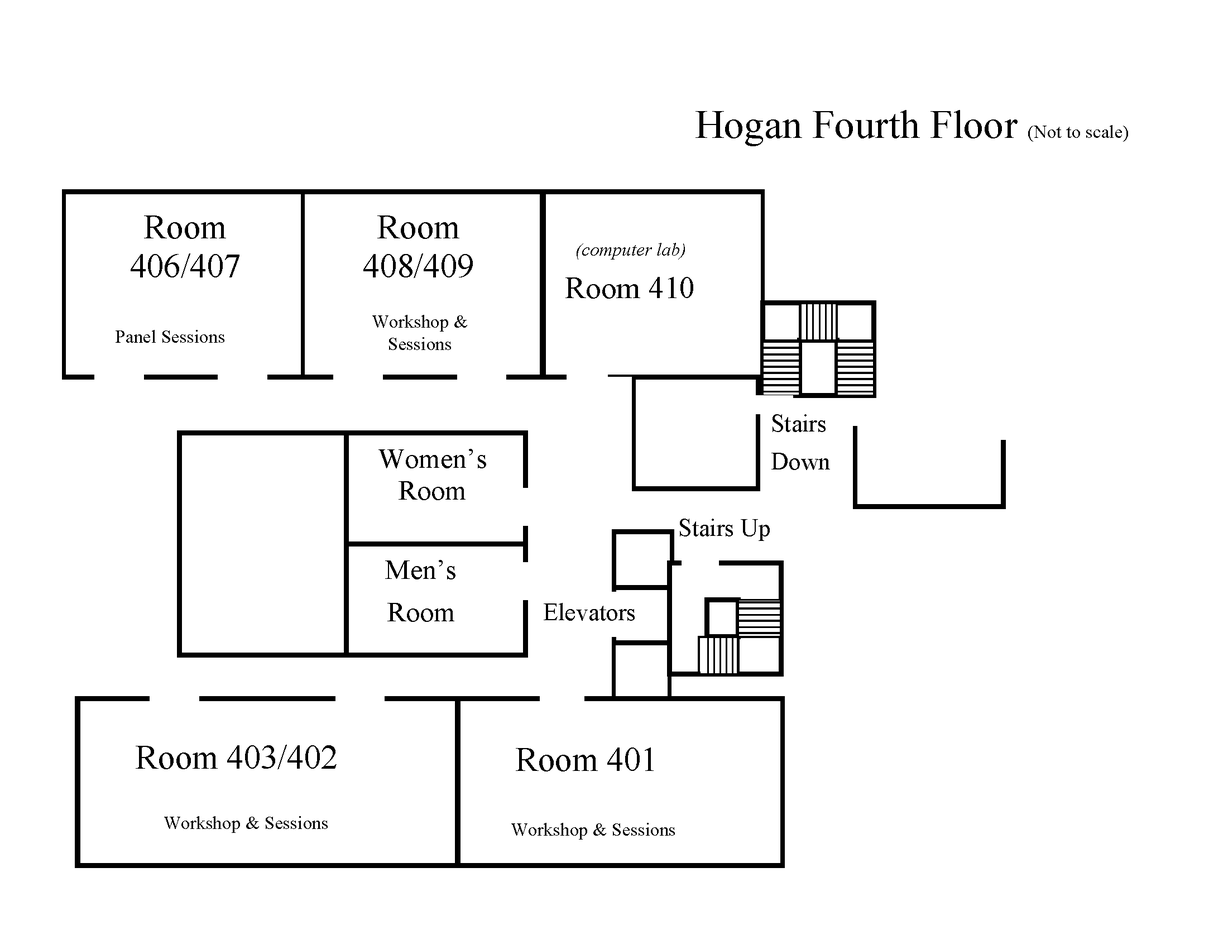
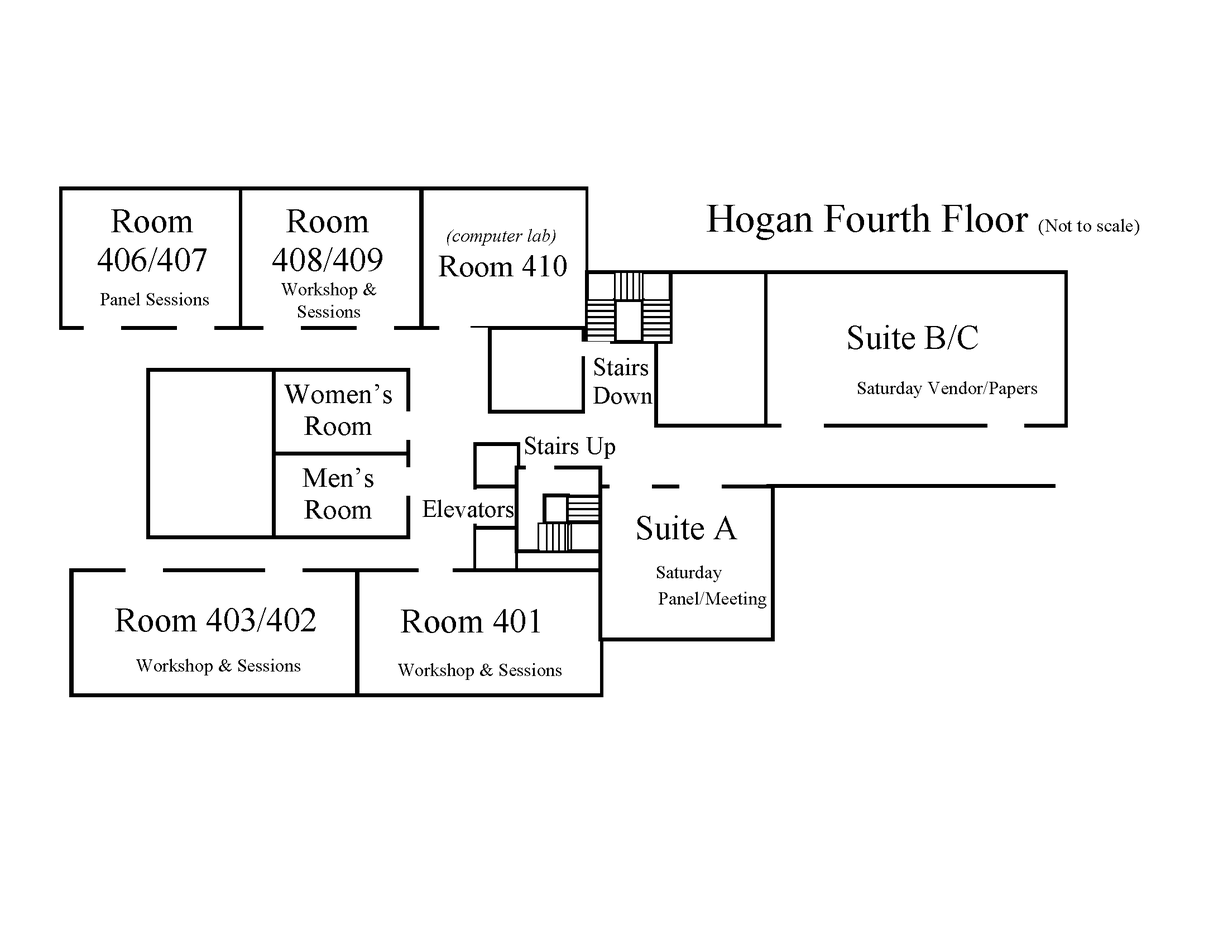
Saturday room changes

diff --git a/data/program.js b/data/program.js
@@ -1,1 +1,1 @@
-var program = [{"id": "1", "date": "2015-04-17", "mins": "495", "title": "Registration", "desc": "", "people": [], "time": "07:45", "loc": ["Hogan Third Floor Atrium"], "tags": ["Registration"]}, {"id": "2", "date": "2015-04-17", "mins": "55", "title": "Programming Contest: Registration of teams", "desc": "", "people": [], "time": "07:45", "loc": ["Hogan Third Floor Atrium"], "tags": ["Programming Contest"]}, {"id": "3", "date": "2015-04-17", "mins": "55", "title": "Programming Contest: Breakfast", "desc": "", "people": [], "time": "07:45", "loc": ["Spillane Atrium"], "tags": ["Programming Contest"]}, {"id": "4", "date": "2015-04-17", "mins": "20", "title": "Programming Contest: Pre-contest instructions", "desc": "", "people": [], "time": "08:40", "loc": ["Smith Labs 154"], "tags": ["Programming Contest"]}, {"id": "5", "date": "2015-04-17", "mins": "180", "title": "Programming Contest", "desc": "", "people": [], "time": "09:00", "loc": ["Haberlin Lab 136 and 204, Swords Lab 219 "], "tags": ["Programming Contest"]}, {"id": "6", "date": "2015-04-17", "mins": "30", "title": "Programming Contest: Lunch", "desc": "", "people": [], "time": "12:00", "loc": ["Swords Room 352"], "tags": ["Programming Contest"]}, {"id": "7", "date": "2015-04-17", "mins": "180", "title": "Workshop 1: Computational Thinking in Greenfoot AI Game Strategies for CS1", "desc": "", "people": [{"id": "1", "name": "Michael Jonas"}, {"id": "2", "name": "Mihaela Sabin"}], "time": "09:00", "loc": ["Hogan Room 320"], "tags": ["Workshop"]}, {"id": "8", "date": "2015-04-17", "mins": "180", "title": "Workshop 2:Introducing Secure Coding in CS0, CS1, and CS2", "desc": "", "people": [{"id": "3", "name": "Siddharth Kaza"}, {"id": "4", "name": "Blair Taylor"}, {"id": "5", "name": "Elzabeth K. Hawthorne"}], "time": "09:00", "loc": ["Hogan Room 401"], "tags": ["Workshop"]}, {"id": "9", "date": "2015-04-17", "mins": "180", "title": "Workshop 3: Teaching Software Engineering with Lego Serious Play ", "desc": "", "people": [{"id": "6", "name": "Stan Kurkovsky"}], "time": "09:00", "loc": ["Hogan Room 408/409"], "tags": ["Workshop"]}, {"id": "10", "date": "2015-04-17", "mins": "180", "title": "Workshop 4: Chapel: A Versatile Language for Teaching Parallel Programming ", "desc": "", "people": [{"id": "7", "name": "Kyle Burke"}], "time": "09:00", "loc": ["Hogan Room 402/403"], "tags": ["Workshop"]}, {"id": "11", "date": "2015-04-17", "mins": "390", "title": "Hackfest", "desc": "Sponsored by OpenHatch and Red Hat", "people": [{"id": "8", "name": "Shauna Gordon-McKeon"}, {"id": "9", "name": "Stoney Jackson"}, {"id": "10", "name": "Heidi Ellis"}], "time": "14:30", "loc": ["Hogan Room 320"], "tags": ["Hackfest"]}, {"id": "12", "date": "2015-04-17", "mins": "15", "title": "Welcome Address", "desc": "", "people": [{"id": "11", "name": "Margaret Frieje"}], "time": "13:00", "loc": ["Hogan Third Floor Ballroom"], "tags": ["Plenary"]}, {"id": "13", "date": "2015-04-17", "mins": "60", "title": "Self-Limiting Software and Sociotechnical Ecosystems", "desc": "", "people": [{"id": "12", "name": "Sep Kamvar"}], "time": "13:15", "loc": ["Hogan Third Floor Ballroom"], "tags": ["Plenary"]}, {"id": "14", "date": "2015-04-17", "mins": "15", "title": "Break", "desc": "", "people": [], "time": "14:15", "loc": ["Hogan Third Floor Lounge"], "tags": ["Break"]}, {"id": "15", "date": "2015-04-17", "mins": "75", "title": "Paper Session 1A: Curricular Issues", "desc": "", "people": [{"id": "13", "name": "Michael Gousie (Session Chair)"}], "time": "14:30", "loc": ["Hogan Room 401"], "tags": ["Paper", "Session 1A"]}, {"id": "16", "date": "2015-04-17", "mins": "25", "title": "Preliminary Analysis of the 2014 Snapshot of SUNY CS Gatekeeper Courses", "desc": "", "people": [{"id": "14", "name": "Sen Zhang"}, {"id": "15", "name": "Cynthia Marcello"}, {"id": "16", "name": "Arthur Hoskey"}, {"id": "17", "name": "Howard Reed"}, {"id": "18", "name": "James Antonakos"}], "time": "14:30", "loc": ["Hogan Room 401"], "tags": ["Paper", "Session 1A"]}, {"id": "17", "date": "2015-04-17", "mins": "25", "title": "A Dual-Major Course Emphasizing Computer Science and Graphic Design", "desc": "", "people": [{"id": "19", "name": "Fred Martin"}, {"id": "20", "name": "Mark Sherman"}], "time": "14:55", "loc": ["Hogan Room 401"], "tags": ["Paper", "Session 1A"]}, {"id": "18", "date": "2015-04-17", "mins": "20", "title": "Public Debate Format for the Development of Soft Skill Competency in Computer Science Curriculua", "desc": "", "people": [{"id": "21", "name": "Christopher Stuetzle"}], "time": "15:20", "loc": ["Hogan Room 401"], "tags": ["Paper", "Session 1A"]}, {"id": "19", "date": "2015-04-17", "mins": "75", "title": "Quick Git Setup Tutorial", "desc": "", "people": [{"id": "22", "name": "Joseph Lawrance"}, {"id": "23", "name": "Seikyung Jung"}], "time": "14:30", "loc": ["Hogan Room 402/403"], "tags": ["Tutorial", "Session 1B"]}, {"id": "20", "date": "2015-04-17", "mins": "75", "title": "Panel Session 1C", "desc": "", "people": [{"id": "24", "name": "Yana Kortsarts (Session Chair)"}], "time": "14:30", "loc": ["Hogan Room 406/407"], "tags": ["Panel", "Session 1C"]}, {"id": "21", "date": "2015-04-17", "mins": "75", "title": "Making Interdisciplinary Courses and Projects Work", "desc": "", "people": [{"id": "25", "name": "Bonnie MacKellar"}, {"id": "26", "name": "Joan Peckham"}, {"id": "27", "name": "Jesse Heines"}, {"id": "28", "name": "Margaret Menzin"}, {"id": "29", "name": "Ursula Wolz"}], "time": "14:30", "loc": ["Hogan Room 406/407"], "tags": ["Panel", "Session 1C"]}, {"id": "22", "date": "2015-04-17", "mins": "75", "title": "EMC Academic Alliance - Educating Future IT Professionals", "desc": "Learn how you can enhance student career prospects in the world of IT through the Academic Alliance. The program offers colleges and universities around the globe unique ‘open’ curriculum-based education, such as storage, cloud computing and big data analytics. The courses focus on technology concepts and principles applicable to any vendor environment. The goal is to prepare graduates to fully leverage enhanced and emerging technologies in virtualized and cloud environments. There is no cost to institutions	 to join the program and members receive numerous benefits including: faculty training, course materials, and secure web portals for faculty and students.", "people": [{"id": "30", "name": "Kim Yohannan"}], "time": "14:30", "loc": ["Hogan Room 408/409"], "tags": ["Vendor", "Session 1D"]}, {"id": "23", "date": "2015-04-17", "mins": "30", "title": "Break", "desc": "", "people": [], "time": "15:45", "loc": ["Hogan Third Floor Lounge"], "tags": ["Break"]}, {"id": "24", "date": "2015-04-17", "mins": "75", "title": "Paper & Lightning Talks Session 2A", "desc": "", "people": [{"id": "31", "name": "Joan E. DeBello (Session Chair)"}], "time": "16:15", "loc": ["Hogan Room 401"], "tags": ["Paper", "Session 2A"]}, {"id": "25", "date": "2015-04-17", "mins": "25", "title": "Algorithmic Thinking Unplugged", "desc": "", "people": [{"id": "32", "name": "Ed Lamanga"}], "time": "16:15", "loc": ["Hogan Room 401"], "tags": ["Paper", "Session 2A"]}, {"id": "26", "date": "2015-04-17", "mins": "25", "title": "The Assessment of Mobile Computational Thinking", "desc": "", "people": [{"id": "20", "name": "Mark Sherman"}, {"id": "19", "name": "Fred Martin"}], "time": "16:40", "loc": ["Hogan Room 401"], "tags": ["Paper", "Session 2A"]}, {"id": "27", "date": "2015-04-17", "mins": "25", "title": "An Abstract Game for Each Data Structure", "desc": "", "people": [{"id": "33", "name": "Kyle Burke"}], "time": "17:05", "loc": ["Hogan Room 401"], "tags": ["Lightning Talk", "Session 2A"]}, {"id": "28", "date": "2015-04-17", "mins": "75", "title": "Panel Session 2B", "desc": "", "people": [{"id": "24", "name": "Yana Kortsarts (Session Chair)"}], "time": "16:15", "loc": ["Hogan Room 406/407"], "tags": ["Panel", "Session 2B"]}, {"id": "29", "date": "2015-04-17", "mins": "75", "title": "Lessons from Women's College: What Works, What Doesn't, and What Will Work Elsewhere", "desc": "", "people": [{"id": "34", "name": "Nanette Veilleux"}, {"id": "35", "name": "Barbara Lerner"}, {"id": "36", "name": "Jean Herbst"}, {"id": "37", "name": "Christopher Andrews"}], "time": "16:15", "loc": ["Hogan Room 406/407"], "tags": ["Panel", "Session 2B"]}, {"id": "30", "date": "2015-04-17", "mins": "75", "title": "Using the Cloud as Middleware", "desc": "", "people": [{"id": "38", "name": "Delbert Hart"}], "time": "16:15", "loc": ["Hogan Room 408/409"], "tags": ["Tutorial", "Session 2C"]}, {"id": "31", "date": "2015-04-17", "mins": "90", "title": "Social Hour", "desc": "", "people": [], "time": "17:30", "loc": ["Hogan Third Floor Lounge"], "tags": ["Social Hour"]}, {"id": "32", "date": "2015-04-17", "mins": "90", "title": "Faculty Posters", "desc": "", "people": [], "time": "17:30", "loc": ["Hogan Third Floor Lounge"], "tags": ["Poster"]}, {"id": "33", "date": "2015-04-17", "mins": "90", "title": "Student Posters", "desc": "", "people": [], "time": "17:30", "loc": ["Hogan Rooms 304/305 and 328"], "tags": ["Poster"]}, {"id": "34", "date": "2015-04-17", "mins": "120", "title": "Presentation of Awards for Programming Contest and Student Posters", "desc": "", "people": [], "time": "19:00", "loc": ["Hogan Third Floor Ballroom"], "tags": ["Awards"]}, {"id": "35", "date": "2015-04-17", "mins": "120", "title": "Dinner Banquet", "desc": "", "people": [], "time": "19:00", "loc": ["Hogan Third Floor Ballroom"], "tags": ["Banquet"]}, {"id": "36", "date": "2015-04-18", "mins": "150", "title": "Registration and hospitalities", "desc": "", "people": [], "time": "07:30", "loc": ["Hogan Third Floor Atrium"], "tags": ["Registration"]}, {"id": "37", "date": "2015-04-18", "mins": "60", "title": "Light Continental Breakfast", "desc": "", "people": [], "time": "08:00", "loc": ["Hogan Third Floor Lounge"], "tags": ["Breakfast"]}, {"id": "38", "date": "2015-04-18", "mins": "75", "title": "Paper Session 3A: Engaging Approaches", "desc": "", "people": [{"id": "39", "name": "Daniel Rogers (Session Chair)"}], "time": "09:00", "loc": ["Hogan Room 401"], "tags": ["Paper", "Session 3A"]}, {"id": "39", "date": "2015-04-18", "mins": "25", "title": "Using Packet Sniffing to Teach Networking Concepts", "desc": "", "people": [{"id": "40", "name": "Bruce Tis"}], "time": "09:00", "loc": ["Hogan Room 401"], "tags": ["Paper", "Session 3A"]}, {"id": "40", "date": "2015-04-18", "mins": "25", "title": "Cybersecurity Games Can Be Interactive, Fun, Educational and Engaging", "desc": "", "people": [{"id": "41", "name": "Thomas Sharkey"}, {"id": "42", "name": "Catherine Huang"}, {"id": "43", "name": "Ian Cullinane"}, {"id": "44", "name": "Shamsi Moussavi"}], "time": "09:25", "loc": ["Hogan Room 401"], "tags": ["Paper", "Session 3A"]}, {"id": "41", "date": "2015-04-18", "mins": "25", "title": "The Social Side of CS: Engaging Undergraduate Computer Science Students in the IRBProcess for Research Investigating Cyberbullying in Online Multi-Player Gaming Environments", "desc": "", "people": [{"id": "45", "name": "Jami Cotler"}, {"id": "46", "name": "Meg Fryling"}, {"id": "47", "name": "Lauren Mathews"}, {"id": "48", "name": "Shauna Pratico"}], "time": "09:50", "loc": ["Hogan Room 401"], "tags": ["Paper", "Session 3A"]}, {"id": "42", "date": "2015-04-18", "mins": "75", "title": "Paper & Lightning Talks Session 3B", "desc": "", "people": [{"id": "9", "name": "Stoney Jackson (Session Chair)"}], "time": "09:00", "loc": ["Hogan Room 402/403"], "tags": ["Paper", "Session 3B"]}, {"id": "43", "date": "2015-04-18", "mins": "25", "title": "Teaching Greedy Algorithms Using a Single Problem Domain", "desc": "", "people": [{"id": "49", "name": "Joan Lucas"}], "time": "09:00", "loc": ["Hogan Room 402/403"], "tags": ["Paper", "Session 3B"]}, {"id": "44", "date": "2015-04-18", "mins": "25", "title": "On Adding a Critical Thinking Module to a Discrete Structures Course", "desc": "", "people": [{"id": "50", "name": "Michael Scheessele"}, {"id": "51", "name": "Hang Dinh"}, {"id": "52", "name": "Mahesh Anath"}], "time": "09:25", "loc": ["Hogan Room 402/403"], "tags": ["Paper", "Session 3B"]}, {"id": "45", "date": "2015-04-18", "mins": "25", "title": "Challenges in Designing and Introductory Course in Big Data Programming", "desc": "", "people": [{"id": "53", "name": "Roland Depratti"}, {"id": "54", "name": "Gerrett Dancik"}, {"id": "55", "name": "Sara Tasneem"}], "time": "09:50", "loc": ["Hogan Room 402/403"], "tags": ["Lightning Talk", "Session 3B"]}, {"id": "46", "date": "2015-04-18", "mins": "75", "title": "Panel Session 3C", "desc": "", "people": [{"id": "56", "name": "Susan Imberman (Session Chair)"}], "time": "09:00", "loc": ["Hogan Room 406/407"], "tags": ["Panel", "Session 3C"]}, {"id": "47", "date": "2015-04-18", "mins": "75", "title": "Introductory Computer Science Courses: A Discussion about the Rewards, Challenges and Connections among the Courses Taught at the Secondary and College Level", "desc": "", "people": [{"id": "57", "name": "Ann Moskol"}, {"id": "58", "name": "Michael Deslauriers"}, {"id": "26", "name": "Joan Peckham"}, {"id": "59", "name": "Dominic Herard"}], "time": "09:00", "loc": ["Hogan Room 406/407"], "tags": ["Panel", "Session 3C"]}, {"id": "48", "date": "2015-04-18", "mins": "60", "title": "Programming with Grace", "desc": "", "people": [{"id": "60", "name": "Kim Bruce"}], "time": "10:15", "loc": ["Hogan Third Floor Ballroom"], "tags": ["Plenary"]}, {"id": "49", "date": "2015-04-18", "mins": "15", "title": "Break", "desc": "", "people": [], "time": "11:15", "loc": ["Hogan Third Floor Lounge"], "tags": []}, {"id": "50", "date": "2015-04-18", "mins": "75", "title": "Paper Session 4A: Social and Outreach", "desc": "", "people": [{"id": "61", "name": "Adrian Ionescu"}], "time": "11:30", "loc": ["Hogan Room 401"], "tags": ["Paper", "Session 4A"]}, {"id": "51", "date": "2015-04-18", "mins": "25", "title": "Using Web Conferencing to Foster Learning Partnerships in a Team Based Learning Computer Science Curriculum", "desc": "", "people": [{"id": "45", "name": "Jami Cotler"}, {"id": "62", "name": "Dima Kassab"}, {"id": "63", "name": "Xiaojun Yuan"}], "time": "11:30", "loc": ["Hogan Room 401"], "tags": ["Paper", "Session 4A"]}, {"id": "52", "date": "2015-04-18", "mins": "25", "title": "Evaluation of A Computing and Engineering Outreach Program for Girls in Grades 8-10", "desc": "", "people": [{"id": "2", "name": "Mihaela Sabin"}, {"id": "64", "name": "Paul Snow"}, {"id": "65", "name": "Mary Laturnau"}], "time": "11:55", "loc": ["Hogan Room 401"], "tags": ["Paper", "Session 4A"]}, {"id": "53", "date": "2015-04-18", "mins": "25", "title": "Involving High School Students with Visualization and Image Processing", "desc": "", "people": [{"id": "66", "name": "Rahman Tashakkori"}, {"id": "67", "name": "Ahmad Ghadiri"}, {"id": "68", "name": "Sina Tashakkori"}], "time": "12:20", "loc": ["Hogan Room 401"], "tags": ["Paper", "Session 4A"]}, {"id": "54", "date": "2015-04-18", "mins": "75", "title": "Adopting a \"Flipped\" Interactive Pedagogy Using Teachback", "desc": "", "people": [{"id": "69", "name": "Timothy J. Hickey"}, {"id": "70", "name": "William T. Tarimo"}], "time": "11:30", "loc": ["Hogan Room 402/403"], "tags": ["Tutorial", "Session 4B"]}, {"id": "55", "date": "2015-04-18", "mins": "75", "title": "Paper Session 4C: Labs", "desc": "", "people": [{"id": "71", "name": "Larry D'Antonio (Session Chair)"}], "time": "11:30", "loc": ["Hogan Room 408/409"], "tags": ["Paper", "Session 4C"]}, {"id": "56", "date": "2015-04-18", "mins": "25", "title": "Droplet, a Blocks-Based Editor for Text Code", "desc": "", "people": [{"id": "72", "name": "David Bau"}], "time": "11:30", "loc": ["Hogan Room 408/409"], "tags": ["Paper", "Session 4C"]}, {"id": "57", "date": "2015-04-18", "mins": "25", "title": "Automatic Evaluation of Computer Programs Using Moodle's Virtual Programming Lab (VPL) Module", "desc": "", "people": [{"id": "73", "name": "Dominique Thiebaut"}], "time": "11:55", "loc": ["Hogan Room 408/409"], "tags": ["Paper", "Session 4C"]}, {"id": "58", "date": "2015-04-18", "mins": "75", "title": "Turings Craft - Creating Your Own Exercises in CodeLab and MyProgrammingLab", "desc": "CodeLab provides hundreds of short programming exercises in each commonly taught intro programming language. In case that's not enough for you or if you want to arrange for your favorite homework programming assignments to be automatically checked (with	 feedback to students), it's now easier than ever in the latest	 edition of CodeLab", "people": [{"id": "74", "name": "David Arnow"}], "time": "09:00", "loc": ["Hogan Room 408/409"], "tags": ["Vendor", "Session 3D"]}, {"id": "59", "date": "2015-04-18", "mins": "30", "title": "Membership Meeting", "desc": "", "people": [], "time": "13:00", "loc": ["Hogan Room 320"], "tags": ["Meeting"]}, {"id": "60", "date": "2015-04-18", "mins": "120", "title": "Board Meeting", "desc": "", "people": [], "time": "13:30", "loc": ["Hogan Room 320"], "tags": ["Meeting"]}];
+var program = [{"id": "1", "date": "2015-04-17", "mins": "495", "title": "Registration", "desc": "", "people": [], "time": "07:45", "loc": ["Hogan Third Floor Atrium"], "tags": ["Registration"]}, {"id": "2", "date": "2015-04-17", "mins": "55", "title": "Programming Contest: Registration of teams", "desc": "", "people": [], "time": "07:45", "loc": ["Hogan Third Floor Atrium"], "tags": ["Programming Contest"]}, {"id": "3", "date": "2015-04-17", "mins": "55", "title": "Programming Contest: Breakfast", "desc": "", "people": [], "time": "07:45", "loc": ["Spillane Atrium"], "tags": ["Programming Contest"]}, {"id": "4", "date": "2015-04-17", "mins": "20", "title": "Programming Contest: Pre-contest instructions", "desc": "", "people": [], "time": "08:40", "loc": ["Smith Labs 154"], "tags": ["Programming Contest"]}, {"id": "5", "date": "2015-04-17", "mins": "180", "title": "Programming Contest", "desc": "", "people": [], "time": "09:00", "loc": ["Haberlin Lab 136 and 204, Swords Lab 219 "], "tags": ["Programming Contest"]}, {"id": "6", "date": "2015-04-17", "mins": "30", "title": "Programming Contest: Lunch", "desc": "", "people": [], "time": "12:00", "loc": ["Swords Room 352"], "tags": ["Programming Contest"]}, {"id": "7", "date": "2015-04-17", "mins": "180", "title": "Workshop 1: Computational Thinking in Greenfoot AI Game Strategies for CS1", "desc": "", "people": [{"id": "1", "name": "Michael Jonas"}, {"id": "2", "name": "Mihaela Sabin"}], "time": "09:00", "loc": ["Hogan Room 320"], "tags": ["Workshop"]}, {"id": "8", "date": "2015-04-17", "mins": "180", "title": "Workshop 2:Introducing Secure Coding in CS0, CS1, and CS2", "desc": "", "people": [{"id": "3", "name": "Siddharth Kaza"}, {"id": "4", "name": "Blair Taylor"}, {"id": "5", "name": "Elzabeth K. Hawthorne"}], "time": "09:00", "loc": ["Hogan Room 401"], "tags": ["Workshop"]}, {"id": "9", "date": "2015-04-17", "mins": "180", "title": "Workshop 3: Teaching Software Engineering with Lego Serious Play ", "desc": "", "people": [{"id": "6", "name": "Stan Kurkovsky"}], "time": "09:00", "loc": ["Hogan Room 408/409"], "tags": ["Workshop"]}, {"id": "10", "date": "2015-04-17", "mins": "180", "title": "Workshop 4: Chapel: A Versatile Language for Teaching Parallel Programming ", "desc": "", "people": [{"id": "7", "name": "Kyle Burke"}], "time": "09:00", "loc": ["Hogan Room 402/403"], "tags": ["Workshop"]}, {"id": "11", "date": "2015-04-17", "mins": "390", "title": "Hackfest", "desc": "Sponsored by OpenHatch and Red Hat", "people": [{"id": "8", "name": "Shauna Gordon-McKeon"}, {"id": "9", "name": "Stoney Jackson"}, {"id": "10", "name": "Heidi Ellis"}], "time": "14:30", "loc": ["Hogan Room 320"], "tags": ["Hackfest"]}, {"id": "12", "date": "2015-04-17", "mins": "15", "title": "Welcome Address", "desc": "", "people": [{"id": "11", "name": "Margaret Frieje"}], "time": "13:00", "loc": ["Hogan Third Floor Ballroom"], "tags": ["Plenary"]}, {"id": "13", "date": "2015-04-17", "mins": "60", "title": "Self-Limiting Software and Sociotechnical Ecosystems", "desc": "", "people": [{"id": "12", "name": "Sep Kamvar"}], "time": "13:15", "loc": ["Hogan Third Floor Ballroom"], "tags": ["Plenary"]}, {"id": "14", "date": "2015-04-17", "mins": "15", "title": "Break", "desc": "", "people": [], "time": "14:15", "loc": ["Hogan Third Floor Lounge"], "tags": ["Break"]}, {"id": "15", "date": "2015-04-17", "mins": "75", "title": "Paper Session 1A: Curricular Issues", "desc": "", "people": [{"id": "13", "name": "Michael Gousie (Session Chair)"}], "time": "14:30", "loc": ["Hogan Room 401"], "tags": ["Paper", "Session 1A"]}, {"id": "16", "date": "2015-04-17", "mins": "25", "title": "Preliminary Analysis of the 2014 Snapshot of SUNY CS Gatekeeper Courses", "desc": "", "people": [{"id": "14", "name": "Sen Zhang"}, {"id": "15", "name": "Cynthia Marcello"}, {"id": "16", "name": "Arthur Hoskey"}, {"id": "17", "name": "Howard Reed"}, {"id": "18", "name": "James Antonakos"}], "time": "14:30", "loc": ["Hogan Room 401"], "tags": ["Paper", "Session 1A"]}, {"id": "17", "date": "2015-04-17", "mins": "25", "title": "A Dual-Major Course Emphasizing Computer Science and Graphic Design", "desc": "", "people": [{"id": "19", "name": "Fred Martin"}, {"id": "20", "name": "Mark Sherman"}], "time": "14:55", "loc": ["Hogan Room 401"], "tags": ["Paper", "Session 1A"]}, {"id": "18", "date": "2015-04-17", "mins": "20", "title": "Public Debate Format for the Development of Soft Skill Competency in Computer Science Curriculua", "desc": "", "people": [{"id": "21", "name": "Christopher Stuetzle"}], "time": "15:20", "loc": ["Hogan Room 401"], "tags": ["Paper", "Session 1A"]}, {"id": "19", "date": "2015-04-17", "mins": "75", "title": "Quick Git Setup Tutorial", "desc": "", "people": [{"id": "22", "name": "Joseph Lawrance"}, {"id": "23", "name": "Seikyung Jung"}], "time": "14:30", "loc": ["Hogan Room 402/403"], "tags": ["Tutorial", "Session 1B"]}, {"id": "20", "date": "2015-04-17", "mins": "75", "title": "Panel Session 1C", "desc": "", "people": [{"id": "24", "name": "Yana Kortsarts (Session Chair)"}], "time": "14:30", "loc": ["Hogan Room 406/407"], "tags": ["Panel", "Session 1C"]}, {"id": "21", "date": "2015-04-17", "mins": "75", "title": "Making Interdisciplinary Courses and Projects Work", "desc": "", "people": [{"id": "25", "name": "Bonnie MacKellar"}, {"id": "26", "name": "Joan Peckham"}, {"id": "27", "name": "Jesse Heines"}, {"id": "28", "name": "Margaret Menzin"}, {"id": "29", "name": "Ursula Wolz"}], "time": "14:30", "loc": ["Hogan Room 406/407"], "tags": ["Panel", "Session 1C"]}, {"id": "22", "date": "2015-04-17", "mins": "75", "title": "EMC Academic Alliance - Educating Future IT Professionals", "desc": "Learn how you can enhance student career prospects in the world of IT through the Academic Alliance. The program offers colleges and universities around the globe unique ‘open’ curriculum-based education, such as storage, cloud computing and big data analytics. The courses focus on technology concepts and principles applicable to any vendor environment. The goal is to prepare graduates to fully leverage enhanced and emerging technologies in virtualized and cloud environments. There is no cost to institutions	 to join the program and members receive numerous benefits including: faculty training, course materials, and secure web portals for faculty and students.", "people": [{"id": "30", "name": "Kim Yohannan"}], "time": "14:30", "loc": ["Hogan Room 408/409"], "tags": ["Vendor", "Session 1D"]}, {"id": "23", "date": "2015-04-17", "mins": "30", "title": "Break", "desc": "", "people": [], "time": "15:45", "loc": ["Hogan Third Floor Lounge"], "tags": ["Break"]}, {"id": "24", "date": "2015-04-17", "mins": "75", "title": "Paper & Lightning Talks Session 2A", "desc": "", "people": [{"id": "31", "name": "Joan E. DeBello (Session Chair)"}], "time": "16:15", "loc": ["Hogan Room 401"], "tags": ["Paper", "Session 2A"]}, {"id": "25", "date": "2015-04-17", "mins": "25", "title": "Algorithmic Thinking Unplugged", "desc": "", "people": [{"id": "32", "name": "Ed Lamanga"}], "time": "16:15", "loc": ["Hogan Room 401"], "tags": ["Paper", "Session 2A"]}, {"id": "26", "date": "2015-04-17", "mins": "25", "title": "The Assessment of Mobile Computational Thinking", "desc": "", "people": [{"id": "20", "name": "Mark Sherman"}, {"id": "19", "name": "Fred Martin"}], "time": "16:40", "loc": ["Hogan Room 401"], "tags": ["Paper", "Session 2A"]}, {"id": "27", "date": "2015-04-17", "mins": "25", "title": "An Abstract Game for Each Data Structure", "desc": "", "people": [{"id": "33", "name": "Kyle Burke"}], "time": "17:05", "loc": ["Hogan Room 401"], "tags": ["Lightning Talk", "Session 2A"]}, {"id": "28", "date": "2015-04-17", "mins": "75", "title": "Panel Session 2B", "desc": "", "people": [{"id": "24", "name": "Yana Kortsarts (Session Chair)"}], "time": "16:15", "loc": ["Hogan Room 406/407"], "tags": ["Panel", "Session 2B"]}, {"id": "29", "date": "2015-04-17", "mins": "75", "title": "Lessons from Women's College: What Works, What Doesn't, and What Will Work Elsewhere", "desc": "", "people": [{"id": "34", "name": "Nanette Veilleux"}, {"id": "35", "name": "Barbara Lerner"}, {"id": "36", "name": "Jean Herbst"}, {"id": "37", "name": "Christopher Andrews"}], "time": "16:15", "loc": ["Hogan Room 406/407"], "tags": ["Panel", "Session 2B"]}, {"id": "30", "date": "2015-04-17", "mins": "75", "title": "Using the Cloud as Middleware", "desc": "", "people": [{"id": "38", "name": "Delbert Hart"}], "time": "16:15", "loc": ["Hogan Room 408/409"], "tags": ["Tutorial", "Session 2C"]}, {"id": "31", "date": "2015-04-17", "mins": "90", "title": "Social Hour", "desc": "", "people": [], "time": "17:30", "loc": ["Hogan Third Floor Lounge"], "tags": ["Social Hour"]}, {"id": "32", "date": "2015-04-17", "mins": "90", "title": "Faculty Posters", "desc": "", "people": [], "time": "17:30", "loc": ["Hogan Third Floor Lounge"], "tags": ["Poster"]}, {"id": "33", "date": "2015-04-17", "mins": "90", "title": "Student Posters", "desc": "", "people": [], "time": "17:30", "loc": ["Hogan Rooms 304/305 and 328"], "tags": ["Poster"]}, {"id": "34", "date": "2015-04-17", "mins": "120", "title": "Presentation of Awards for Programming Contest and Student Posters", "desc": "", "people": [], "time": "19:00", "loc": ["Hogan Third Floor Ballroom"], "tags": ["Awards"]}, {"id": "35", "date": "2015-04-17", "mins": "120", "title": "Dinner Banquet", "desc": "", "people": [], "time": "19:00", "loc": ["Hogan Third Floor Ballroom"], "tags": ["Banquet"]}, {"id": "36", "date": "2015-04-18", "mins": "150", "title": "Registration and hospitalities", "desc": "", "people": [], "time": "07:30", "loc": ["Hogan Third Floor Atrium"], "tags": ["Registration"]}, {"id": "37", "date": "2015-04-18", "mins": "60", "title": "Light Continental Breakfast", "desc": "", "people": [], "time": "08:00", "loc": ["Hogan Third Floor Lounge"], "tags": ["Breakfast"]}, {"id": "38", "date": "2015-04-18", "mins": "75", "title": "Paper Session 3A: Engaging Approaches", "desc": "", "people": [{"id": "39", "name": "Daniel Rogers (Session Chair)"}], "time": "09:00", "loc": ["Hogan Room 401"], "tags": ["Paper", "Session 3A"]}, {"id": "39", "date": "2015-04-18", "mins": "25", "title": "Using Packet Sniffing to Teach Networking Concepts", "desc": "", "people": [{"id": "40", "name": "Bruce Tis"}], "time": "09:00", "loc": ["Hogan Room 401"], "tags": ["Paper", "Session 3A"]}, {"id": "40", "date": "2015-04-18", "mins": "25", "title": "Cybersecurity Games Can Be Interactive, Fun, Educational and Engaging", "desc": "", "people": [{"id": "41", "name": "Thomas Sharkey"}, {"id": "42", "name": "Catherine Huang"}, {"id": "43", "name": "Ian Cullinane"}, {"id": "44", "name": "Shamsi Moussavi"}], "time": "09:25", "loc": ["Hogan Room 401"], "tags": ["Paper", "Session 3A"]}, {"id": "41", "date": "2015-04-18", "mins": "25", "title": "The Social Side of CS: Engaging Undergraduate Computer Science Students in the IRBProcess for Research Investigating Cyberbullying in Online Multi-Player Gaming Environments", "desc": "", "people": [{"id": "45", "name": "Jami Cotler"}, {"id": "46", "name": "Meg Fryling"}, {"id": "47", "name": "Lauren Mathews"}, {"id": "48", "name": "Shauna Pratico"}], "time": "09:50", "loc": ["Hogan Room 401"], "tags": ["Paper", "Session 3A"]}, {"id": "42", "date": "2015-04-18", "mins": "75", "title": "Paper & Lightning Talks Session 3B", "desc": "", "people": [{"id": "9", "name": "Stoney Jackson (Session Chair)"}], "time": "09:00", "loc": ["Hogan Room 402/403"], "tags": ["Paper", "Session 3B"]}, {"id": "43", "date": "2015-04-18", "mins": "25", "title": "Teaching Greedy Algorithms Using a Single Problem Domain", "desc": "", "people": [{"id": "49", "name": "Joan Lucas"}], "time": "09:00", "loc": ["Hogan Room 402/403"], "tags": ["Paper", "Session 3B"]}, {"id": "44", "date": "2015-04-18", "mins": "25", "title": "On Adding a Critical Thinking Module to a Discrete Structures Course", "desc": "", "people": [{"id": "50", "name": "Michael Scheessele"}, {"id": "51", "name": "Hang Dinh"}, {"id": "52", "name": "Mahesh Anath"}], "time": "09:25", "loc": ["Hogan Room 402/403"], "tags": ["Paper", "Session 3B"]}, {"id": "45", "date": "2015-04-18", "mins": "25", "title": "Challenges in Designing and Introductory Course in Big Data Programming", "desc": "", "people": [{"id": "53", "name": "Roland Depratti"}, {"id": "54", "name": "Gerrett Dancik"}, {"id": "55", "name": "Sara Tasneem"}], "time": "09:50", "loc": ["Hogan Room 402/403"], "tags": ["Lightning Talk", "Session 3B"]}, {"id": "46", "date": "2015-04-18", "mins": "75", "title": "Panel Session 3C", "desc": "", "people": [{"id": "56", "name": "Susan Imberman (Session Chair)"}], "time": "09:00", "loc": ["Hogan Suite A"], "tags": ["Panel", "Session 3C"]}, {"id": "47", "date": "2015-04-18", "mins": "75", "title": "Introductory Computer Science Courses: A Discussion about the Rewards, Challenges and Connections among the Courses Taught at the Secondary and College Level", "desc": "", "people": [{"id": "57", "name": "Ann Moskol"}, {"id": "58", "name": "Michael Deslauriers"}, {"id": "26", "name": "Joan Peckham"}, {"id": "59", "name": "Dominic Herard"}], "time": "09:00", "loc": ["Hogan Suite A"], "tags": ["Panel", "Session 3C"]}, {"id": "48", "date": "2015-04-18", "mins": "60", "title": "Programming with Grace", "desc": "", "people": [{"id": "60", "name": "Kim Bruce"}], "time": "10:15", "loc": ["Hogan Third Floor Ballroom"], "tags": ["Plenary"]}, {"id": "49", "date": "2015-04-18", "mins": "15", "title": "Break", "desc": "", "people": [], "time": "11:15", "loc": ["Hogan Third Floor Lounge"], "tags": []}, {"id": "50", "date": "2015-04-18", "mins": "75", "title": "Paper Session 4A: Social and Outreach", "desc": "", "people": [{"id": "61", "name": "Adrian Ionescu"}], "time": "11:30", "loc": ["Hogan Room 401"], "tags": ["Paper", "Session 4A"]}, {"id": "51", "date": "2015-04-18", "mins": "25", "title": "Using Web Conferencing to Foster Learning Partnerships in a Team Based Learning Computer Science Curriculum", "desc": "", "people": [{"id": "45", "name": "Jami Cotler"}, {"id": "62", "name": "Dima Kassab"}, {"id": "63", "name": "Xiaojun Yuan"}], "time": "11:30", "loc": ["Hogan Room 401"], "tags": ["Paper", "Session 4A"]}, {"id": "52", "date": "2015-04-18", "mins": "25", "title": "Evaluation of A Computing and Engineering Outreach Program for Girls in Grades 8-10", "desc": "", "people": [{"id": "2", "name": "Mihaela Sabin"}, {"id": "64", "name": "Paul Snow"}, {"id": "65", "name": "Mary Laturnau"}], "time": "11:55", "loc": ["Hogan Room 401"], "tags": ["Paper", "Session 4A"]}, {"id": "53", "date": "2015-04-18", "mins": "25", "title": "Involving High School Students with Visualization and Image Processing", "desc": "", "people": [{"id": "66", "name": "Rahman Tashakkori"}, {"id": "67", "name": "Ahmad Ghadiri"}, {"id": "68", "name": "Sina Tashakkori"}], "time": "12:20", "loc": ["Hogan Room 401"], "tags": ["Paper", "Session 4A"]}, {"id": "54", "date": "2015-04-18", "mins": "75", "title": "Adopting a \"Flipped\" Interactive Pedagogy Using Teachback", "desc": "", "people": [{"id": "69", "name": "Timothy J. Hickey"}, {"id": "70", "name": "William T. Tarimo"}], "time": "11:30", "loc": ["Hogan Room 402/403"], "tags": ["Tutorial", "Session 4B"]}, {"id": "55", "date": "2015-04-18", "mins": "75", "title": "Paper Session 4C: Labs", "desc": "", "people": [{"id": "71", "name": "Larry D'Antonio (Session Chair)"}], "time": "11:30", "loc": ["Hogan Suite B/C"], "tags": ["Paper", "Session 4C"]}, {"id": "56", "date": "2015-04-18", "mins": "25", "title": "Droplet, a Blocks-Based Editor for Text Code", "desc": "", "people": [{"id": "72", "name": "David Bau"}], "time": "11:30", "loc": ["Hogan Suite B/C"], "tags": ["Paper", "Session 4C"]}, {"id": "57", "date": "2015-04-18", "mins": "25", "title": "Automatic Evaluation of Computer Programs Using Moodle's Virtual Programming Lab (VPL) Module", "desc": "", "people": [{"id": "73", "name": "Dominique Thiebaut"}], "time": "11:55", "loc": ["Hogan Suite B/C"], "tags": ["Paper", "Session 4C"]}, {"id": "58", "date": "2015-04-18", "mins": "75", "title": "Turings Craft - Creating Your Own Exercises in CodeLab and MyProgrammingLab", "desc": "CodeLab provides hundreds of short programming exercises in each commonly taught intro programming language. In case that's not enough for you or if you want to arrange for your favorite homework programming assignments to be automatically checked (with	 feedback to students), it's now easier than ever in the latest	 edition of CodeLab", "people": [{"id": "74", "name": "David Arnow"}], "time": "09:00", "loc": ["Hogan Suite B/C"], "tags": ["Vendor", "Session 3D"]}, {"id": "59", "date": "2015-04-18", "mins": "30", "title": "Membership Meeting", "desc": "", "people": [], "time": "13:00", "loc": ["Hogan Suite A"], "tags": ["Meeting"]}, {"id": "60", "date": "2015-04-18", "mins": "120", "title": "Board Meeting", "desc": "", "people": [], "time": "13:30", "loc": ["Hogan Suite A"], "tags": ["Meeting"]}];

diff --git a/index.html b/index.html
@@ -171,7 +171,9 @@ if (navigator.standalone) document.getElementById('install-instructions').style.
     </ul>
     
     <h2>Conference Evaluation</h2>
-    Help us improve the conference. Please complete the <a href=https://eSurv.org?u=CCSCNE-2015>conference evaluation</a>.
+    Help us improve the conference. Please complete the <a
+    href=https://eSurv.org?u=CCSCNE-2015>conference evaluation</a>.
+<br>
 Thank you.
 
 <h2>Links</h2>
